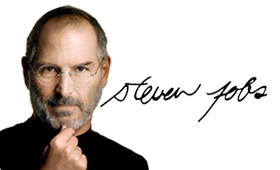
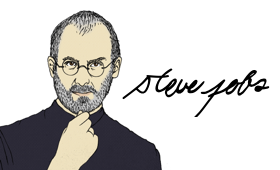
Update celebrity image on homepage

diff --git a/static/stylesheets/home.css b/static/stylesheets/home.css
@@ -827,7 +827,7 @@ a.nav-logo-wrapper > img.logo-img {
 }
 .row.sign-like-star .box-celebrity {
   cursor: pointer;
-  background: #f1f1f1;
+  background: #ffffff;
   -moz-border-radius: 4px;
   -webkit-border-radius: 4px;
   border-radius: 4px;
@@ -1471,7 +1471,7 @@ footer ul li {
 }
 
 .remodal {
-  background-image: url('../images/Emondo-Icon-Colour.svg?1457552297') !important;
+  background-image: url('../images/Emondo-Icon-Colour.svg?1470696071') !important;
   background-position: 140% 358% !important;
   background-size: 58% 88% !important;
   background-repeat: no-repeat !important;

diff --git a/static/sass/home.scss b/static/sass/home.scss
@@ -398,7 +398,7 @@ a.nav-logo-wrapper {
 
   .box-celebrity {
     cursor: pointer;
-    background: #f1f1f1;
+    background: #ffffff;
     @include border-radius(4px);
     @include box-shadow(0px 35px 18px 0px rgba(0, 0, 0, 0.13));
     overflow: hidden;
